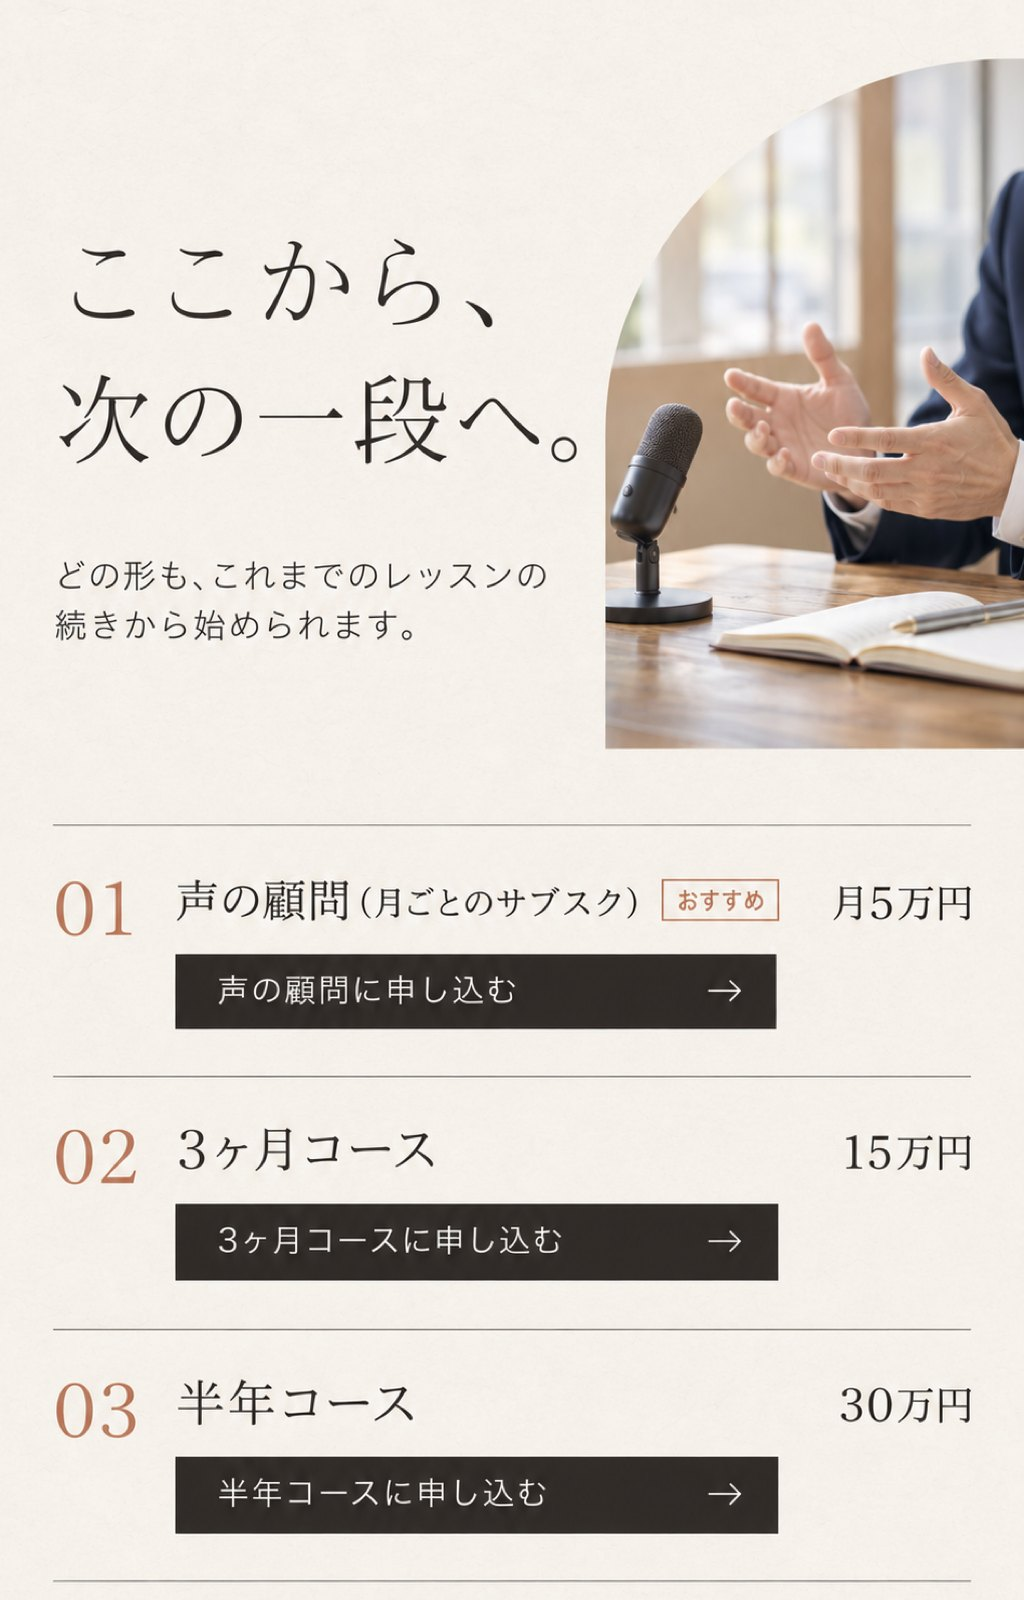
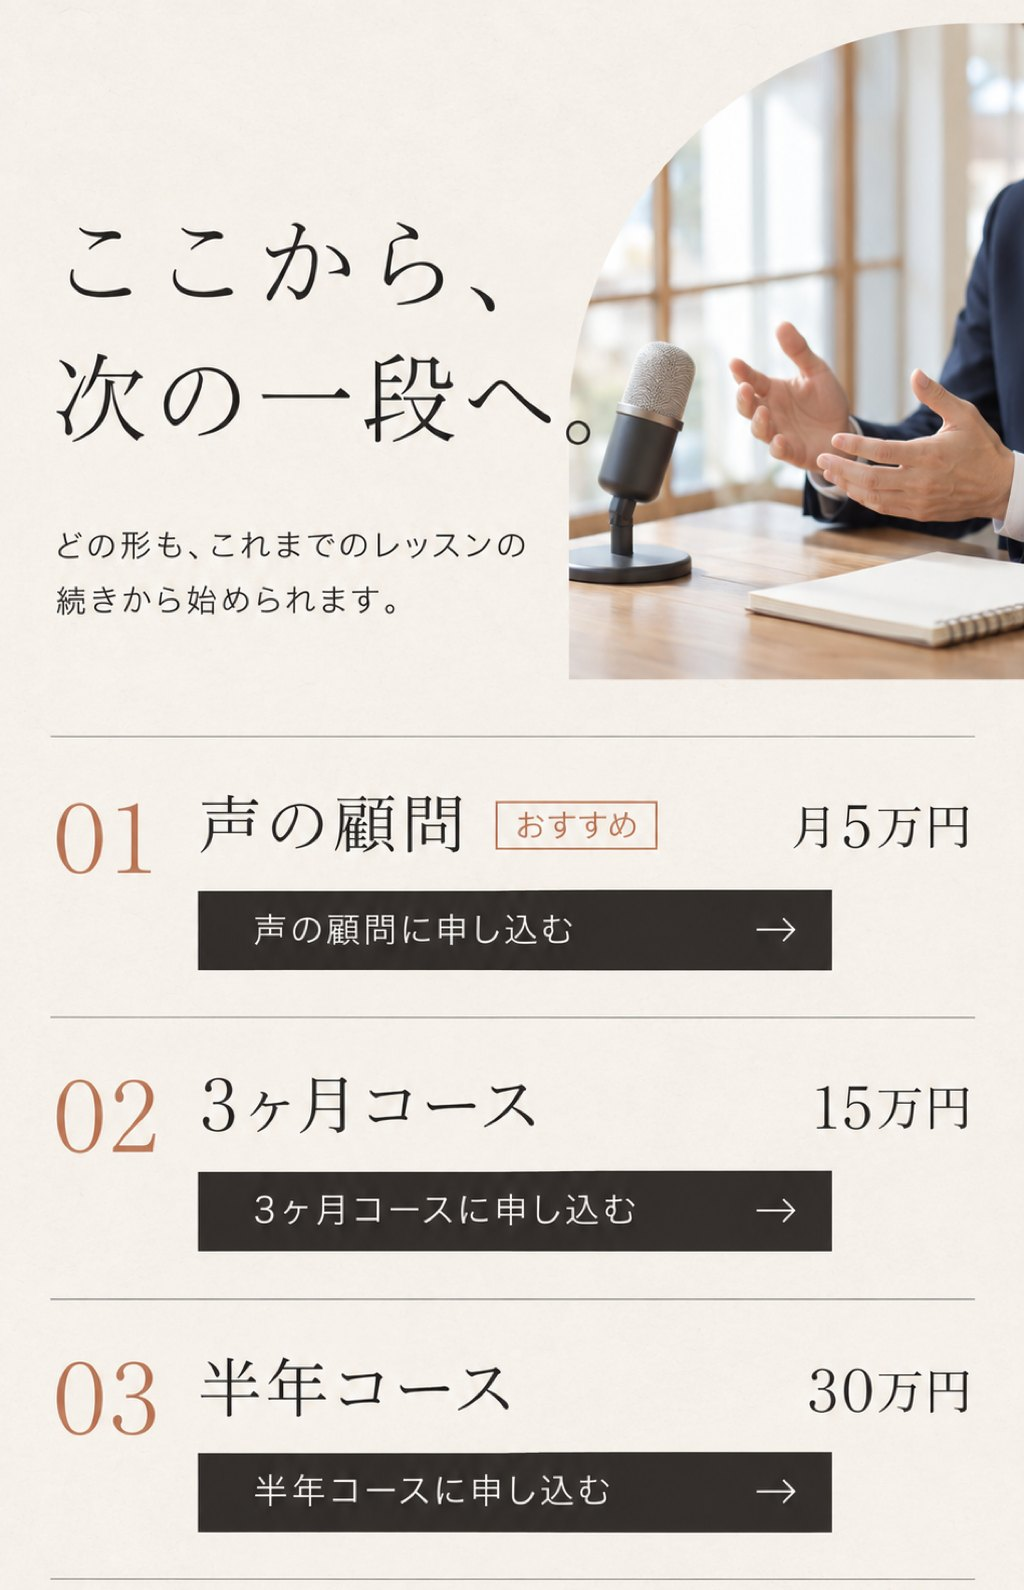
3つのご提案ページ: 「月ごとのサブスク」を外す・ボタン位置を合わせ直し
Claude-Session: https://claude.ai/code/session_01DwjXMPVq5U4mBejhGh5RNJ

diff --git a/p/voice-next-572ab027/index.html b/p/voice-next-572ab027/index.html
@@ -14,20 +14,20 @@
 <body>
 <main>
   <section class="part" aria-label="声で、人を動かす。">
-    <img src="images/01-fv.jpg" width="1024" height="1792" alt="これからの声のサポート。声で、人を動かす。この半年で積み上げた声の基礎を、どの場面でも使いこなす段階へ。01 声の顧問（月ごとのサブスク）、02 3ヶ月コース、03 半年コース。">
-    <a class="hit" href="#plans" style="left:5%;top:87.4%;width:58%;height:5.6%" aria-label="3つのご提案を見る"></a>
+    <img src="images/01-fv.jpg" width="1024" height="1792" alt="これからの声のサポート。声で、人を動かす。この半年で積み上げた声の基礎を、どの場面でも使いこなす段階へ。01 声の顧問、02 3ヶ月コース、03 半年コース。">
+    <a class="hit" href="#plans" style="left:5%;top:90%;width:58%;height:5.5%" aria-label="3つのご提案を見る"></a>
   </section>
   <section class="part" aria-label="この半年で、積み上げてきたこと">
     <img src="images/02-now.jpg" width="1024" height="1792" loading="lazy" alt="この半年で、積み上げてきたこと。01 呼吸と声のつながり（声の基礎）。02 抑揚のつけ方と、相手への伝わり方。03 相手が受け取りやすい声の扱い方。次は、どの場面でも使いこなす段階へ。">
   </section>
   <section class="part" id="plans" aria-label="3つの続け方">
-    <img src="images/03-plans.jpg" width="1024" height="1872" loading="lazy" alt="3つの続け方。おすすめ：声の顧問（月ごとのサブスク）月5万円。ゴールを一緒に決めながら、声の変化に合わせて進むペースを臨機応変に変えていきます。プレゼンや講演など、急に準備したい場面が入ったときは、そこに集中して取り組めます。目安：3ヶ月ごとに、次に磨きたい場面と目安を一緒に決めて、声の変化を振り返ります。目の前の本番に合わせて、テーマはいつでも変えられます。02 3ヶ月コース 15万円。場面を1つに絞って集中。3ヶ月後の目安：決めた1つの場面で、相手の気持ちの流れに合わせて、間・届き方・聞き心地を自分で整えて話せる。03 半年コース 30万円。いくつかの場面で、それぞれに合う声の出し方を体に覚えていきます。半年後の目安：配信・従業員さんへの話・大勢の前と場面が変わっても、その場に合う声に自分で切り替えられる。どの形も、これまでと同じく月1回のZoomセッションに加えて、メールでのご質問はいつでもお受けしています。">
+    <img src="images/03-plans.jpg" width="1024" height="1792" loading="lazy" alt="3つの続け方。おすすめ：声の顧問 月5万円。ゴールを一緒に決めながら、声の変化に合わせて進むペースを臨機応変に変えていきます。プレゼンや講演など、急に準備したい場面が入ったときは、そこに集中して取り組めます。02 3ヶ月コース 15万円。場面を1つに絞って集中。3ヶ月後の目安：決めた1つの場面で、相手の気持ちの流れに合わせて、間・届き方・聞き心地を自分で整えて話せる。03 半年コース 30万円。いくつかの場面で、それぞれに合う声の出し方を体に覚えていきます。半年後の目安：配信・従業員さんへの話・大勢の前と場面が変わっても、その場に合う声に自分で切り替えられる。どの形も、これまでと同じく月1回のZoomセッションに加えて、メールでのご質問はいつでもお受けしています。">
   </section>
   <section class="part" id="apply" aria-label="お申し込み">
-    <img src="images/04-cta.jpg" width="1024" height="1600" loading="lazy" alt="ここから、次の一段へ。どの形も、これまでのレッスンの続きから始められます。">
-    <a class="hit" href="https://buy.stripe.com/28E6oGbhB23L11KbPJaAw0b" style="left:17%;top:59.4%;width:59%;height:4.9%" aria-label="声の顧問に申し込む（月5万円）"></a>
-    <a class="hit" href="https://buy.stripe.com/28E9ASetNdMt11K2f9aAw0o" style="left:17%;top:75.1%;width:59%;height:4.9%" aria-label="3ヶ月コースに申し込む（15万円）"></a>
-    <a class="hit" href="https://buy.stripe.com/eVq6oG3P937PeSAaLFaAw0c" style="left:17%;top:90.9%;width:59%;height:4.9%" aria-label="半年コースに申し込む（30万円）"></a>
+    <img src="images/04-cta.jpg" width="1024" height="1590" loading="lazy" alt="ここから、次の一段へ。どの形も、これまでのレッスンの続きから始められます。">
+    <a class="hit" href="https://buy.stripe.com/28E6oGbhB23L11KbPJaAw0b" style="left:19.3%;top:56%;width:62%;height:5%" aria-label="声の顧問に申し込む（月5万円）"></a>
+    <a class="hit" href="https://buy.stripe.com/28E9ASetNdMt11K2f9aAw0o" style="left:19.3%;top:73.7%;width:62%;height:5%" aria-label="3ヶ月コースに申し込む（15万円）"></a>
+    <a class="hit" href="https://buy.stripe.com/eVq6oG3P937PeSAaLFaAw0c" style="left:19.3%;top:91.3%;width:62%;height:5%" aria-label="半年コースに申し込む（30万円）"></a>
   </section>
   <section class="notes">
     <p>声の顧問をご解約の場合は、次回決済日の14日前までにご連絡ください。</p>
